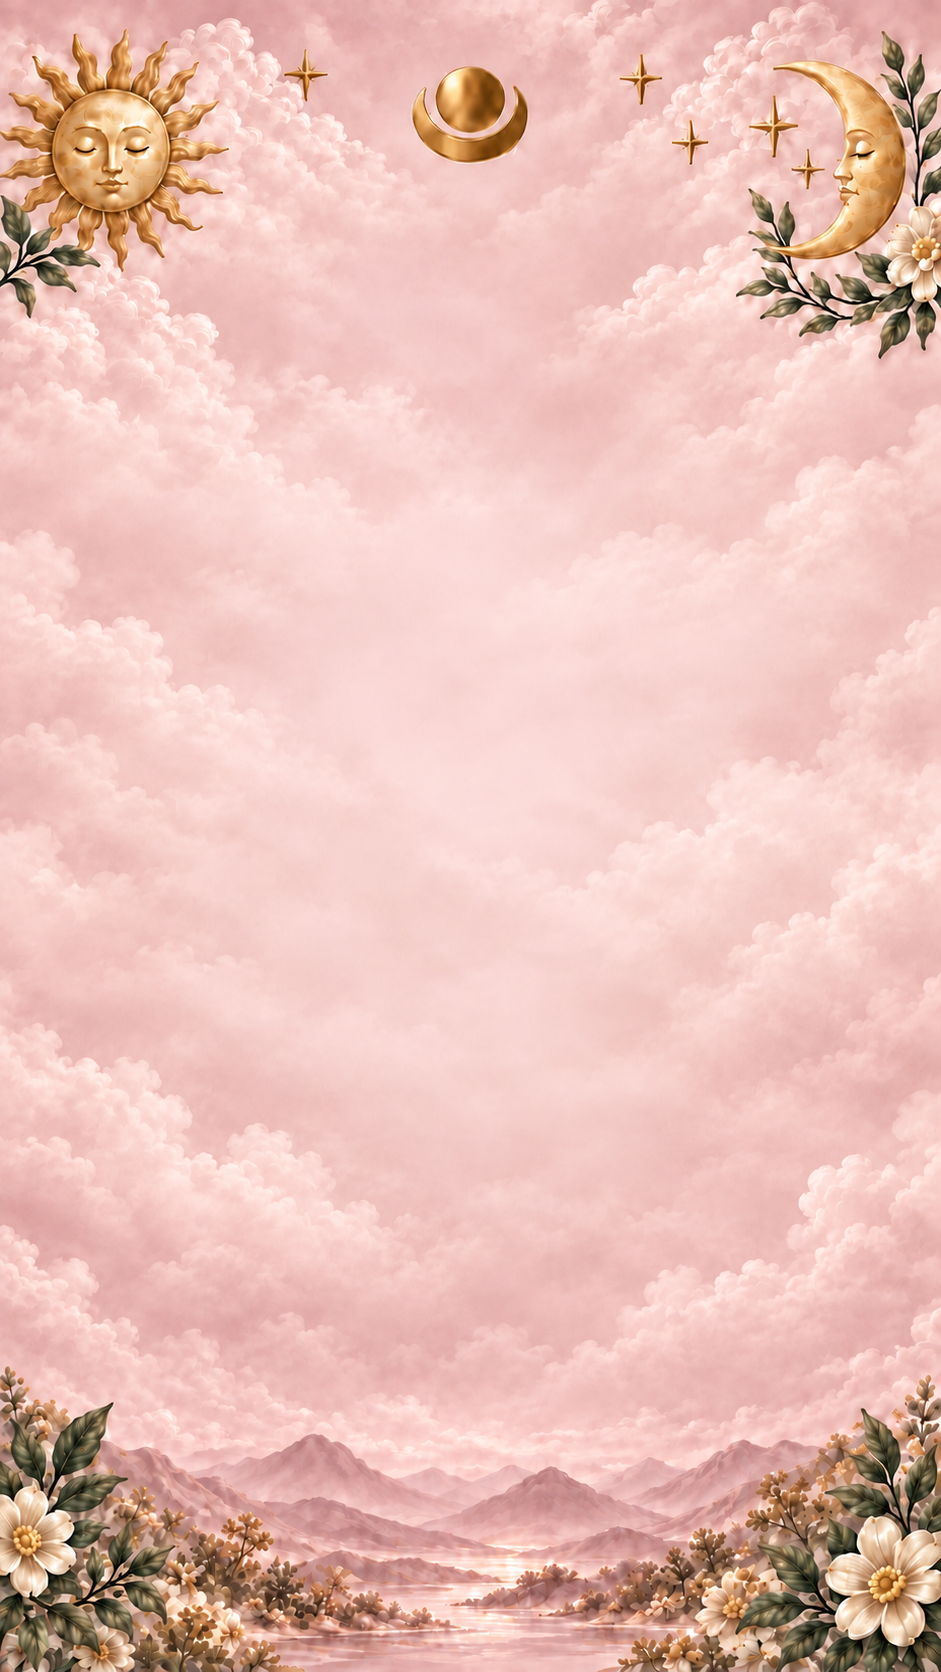
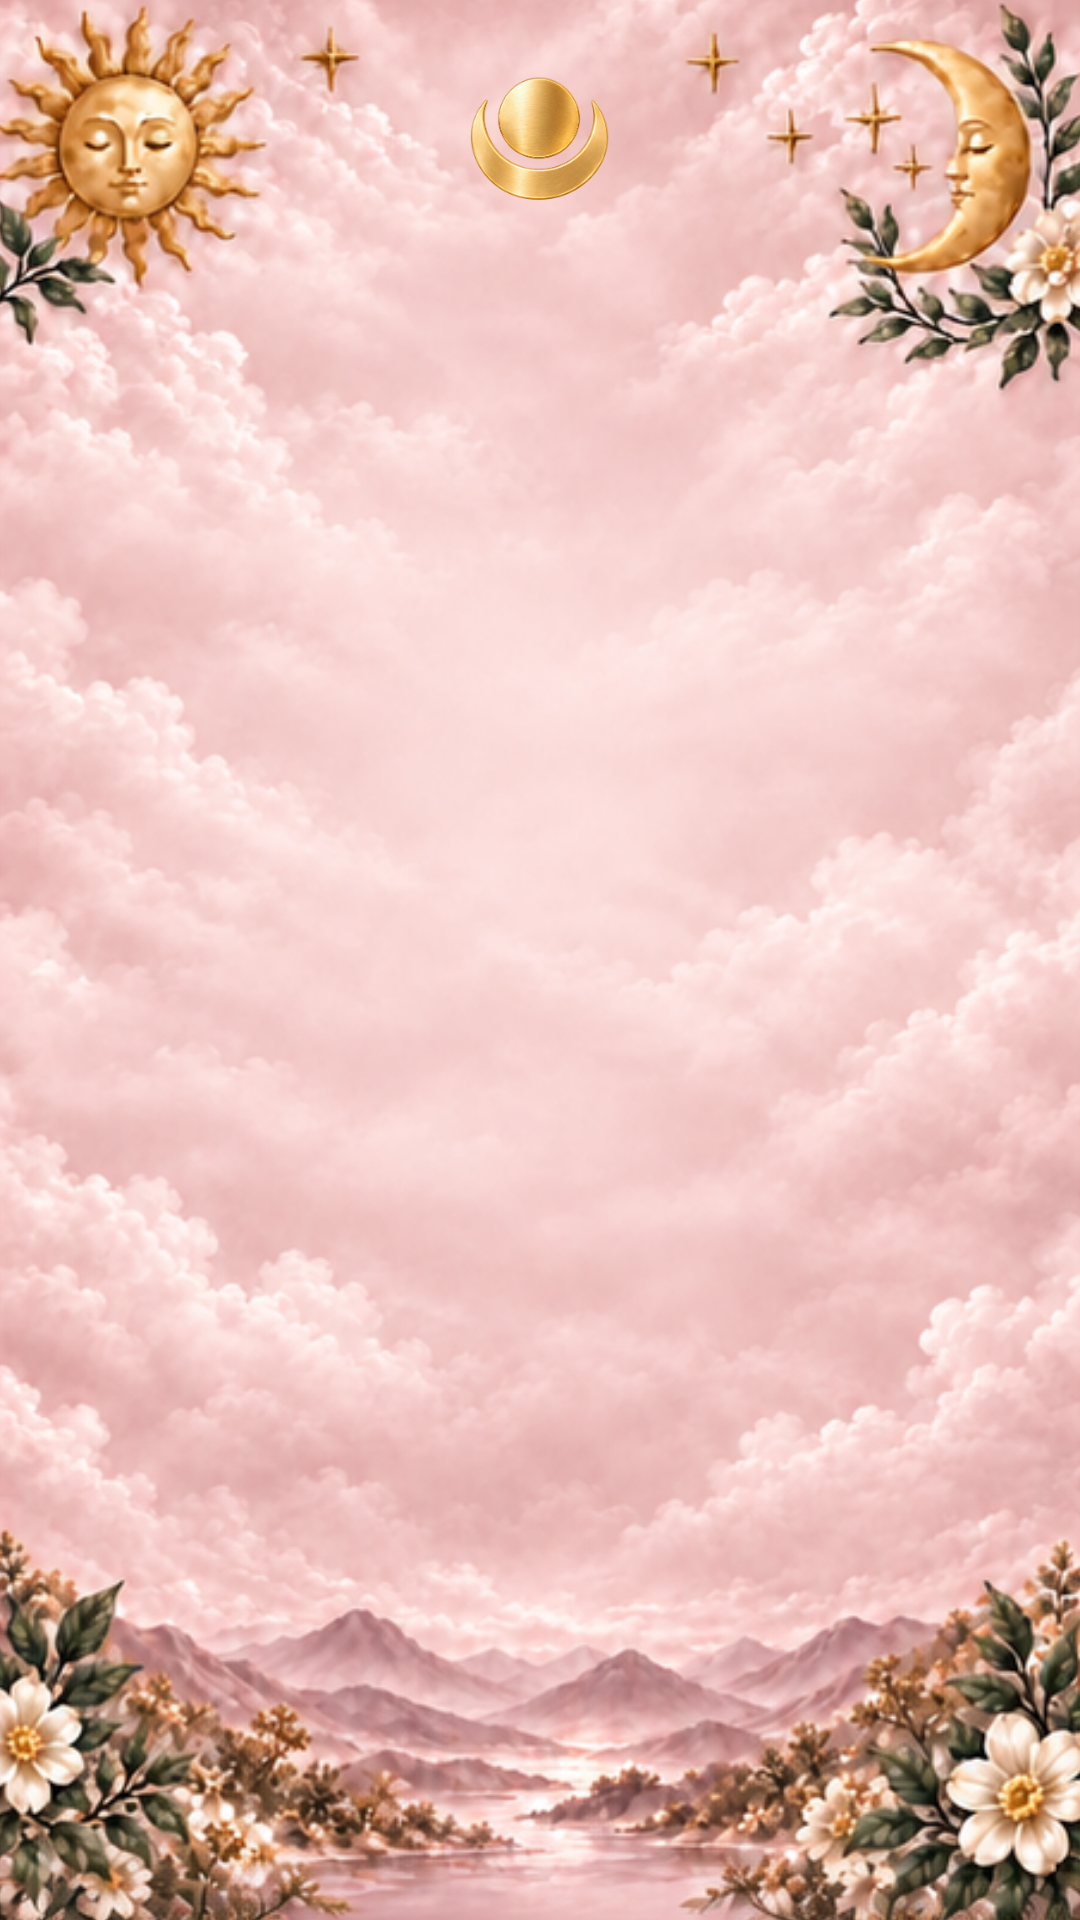
Refresh AURA palettes and reading controls
Use the seven approved 9:16 backgrounds and matching brighter gold marks. Default reading cards to justified alignment with a left-aligned option and a cap on expanded word spacing.

Add Clear all readings for the saved manual draft. Preserve the current canvas and post settings when clearing.

Validation: AURA reading checks passed in Chromium, Firefox, and WebKit. Cover and project checks passed in Chromium.

diff --git a/js/horoscope-template.js b/js/horoscope-template.js
@@ -5,11 +5,11 @@
   const tamil=['மேஷம்','ரிஷபம்','மிதுனம்','கடகம்','சிம்மம்','கன்னி','துலாம்','விருச்சிகம்','தனுசு','மகரம்','கும்பம்','மீனம்'];
   // Label, atmosphere, reading ink, accessible name accent, background key.
   const palettes=[
-    ['Sunday · Warm gold','#efb777','#253026','#805b2d','sunday'],
+    ['Sunday · Peach ivory','#eed4bf','#253026','#805b2d','sunday'],
     ['Monday · Moon pearl','#afc7df','#253026','#49627a','monday'],
-    ['Tuesday · Terracotta','#da9b88','#253026','#8b5142','tuesday'],
-    ['Wednesday · Sage','#b3c393','#253026','#4d6845','wednesday'],
-    ['Thursday · Saffron','#e5c36a','#253026','#7b601e','thursday'],
+    ['Tuesday · Brick red','#cb8074','#253026','#8b5142','tuesday'],
+    ['Wednesday · Celadon','#cddcc5','#253026','#4d6845','wednesday'],
+    ['Thursday · Buttercream','#ede3b6','#253026','#7b601e','thursday'],
     ['Friday · Rose','#e8a7ba','#253026','#875268','friday'],
     ['Saturday · Lavender','#b8a6d2','#253026','#69557f','saturday'],
   ];
@@ -22,7 +22,9 @@
     if(!images.has(name)) images.set(name,new Promise((resolve,reject)=>{
       const image=new Image();image.onload=()=>resolve(image);
       image.onerror=()=>{images.delete(name);reject(new Error('Could not load the horoscope artwork. Please reload.'));};
-      image.src=new URL(name,assetBase).href;
+      const url = new URL(name, assetBase);
+      if (name.startsWith('background-') && name !== 'background-none.png') url.searchParams.set('v', 'weekday-palettes-2');
+      image.src = url.href;
     }));
     return images.get(name);
   }
@@ -44,9 +46,31 @@
     }
     if(line)lines.push(line);return lines;
   }
-  async function render(data,colors,{blank=false,readingFontSize=30,readingFontWeight=600}={}){
+  function drawReadingLine(context, line, x, baseline, width, justify) {
+    if (justify) {
+      const words = line.split(' ');
+      if (words.length > 1) {
+        const widths = words.map(word => context.measureText(word).width);
+        const wordWidth = widths.reduce((sum, value) => sum + value, 0);
+        const gap = (width - wordWidth) / (words.length - 1);
+        const normalSpace = context.measureText(' ').width;
+        // Keep whole words shaped by the font and avoid large holes in narrow cards.
+        if (gap > normalSpace && gap <= normalSpace * 2) {
+          words.forEach((word, index) => {
+            context.fillText(word, x, baseline);
+            x += widths[index] + gap;
+          });
+          return;
+        }
+      }
+    }
+    context.fillText(line, x, baseline);
+  }
+
+  async function render(data,colors,{blank=false,readingFontSize=30,readingFontWeight=600,readingAlignment='justify'}={}){
     if(!Number.isInteger(readingFontSize)||readingFontSize<18||readingFontSize>36)throw new Error('Choose a whole reading text size from 18 to 36 px.');
     if(![400,600,700].includes(readingFontWeight))throw new Error('Choose Regular, Semibold, or Bold reading text.');
+    if(!['justify','left'].includes(readingAlignment))throw new Error('Choose Justified or Left aligned reading text.');
     const ta=data.language==='ta',family=ta?'Noto Sans Tamil':'DM Sans';
     const bodyFont=`${readingFontWeight} ${readingFontSize}px "${family}"`;
     const [background,art]=await Promise.all([
@@ -74,12 +98,13 @@
       if(blank)return;
       const reading=data.ordered[i];if(!reading||reading.name!==sign||typeof reading.text!=='string'||!reading.text.trim())throw new Error(`Missing or unordered ${sign} reading.`);
       c.fillStyle=colors[2];c.font=bodyFont;
-      const lines=wrap(c,reading.text,306,ta?'ta':'en'),lineHeight=Math.ceil(readingFontSize*1.2);
+      const readingWidth = 306;
+      const lines=wrap(c,reading.text,readingWidth,ta?'ta':'en'),lineHeight=Math.ceil(readingFontSize*1.2);
       const baseline=y+46+readingFontSize;
       if(lines.some((line,n)=>baseline+n*lineHeight+c.measureText(line).actualBoundingBoxDescent>y+182)){
         throw new Error(`${name}'s reading does not fit at ${readingFontSize} px. Reduce the shared reading text size or shorten this reading. No text was cut and the canvas is unchanged.`);
       }
-      lines.forEach((line,n)=>c.fillText(line,cardX+22,baseline+n*lineHeight));
+      lines.forEach((line,n)=>drawReadingLine(c, line, cardX+22, baseline+n*lineHeight, readingWidth, readingAlignment === 'justify' && n < lines.length - 1));
     });
     return new Promise((resolve,reject)=>canvas.toBlob(b=>b?resolve(b):reject(new Error('Could not render the horoscope.')),'image/png'));
   }

diff --git a/index.html b/index.html
@@ -85,7 +85,7 @@
             <p hidden id="horoscope-api-status" class="api-status" data-state="checking" role="status" aria-live="polite">Checking API…</p>
             <label class="horoscope-field">Reading date <input id="horoscope-date" type="date" min="1900-01-01" max="2100-12-31" required></label>
             <label class="horoscope-field">Language <select id="horoscope-language"><option value="ta">தமிழ் · Tamil</option><option value="en">English</option></select></label>
-            <label class="horoscope-field">Post color <select id="horoscope-theme"><option value="daily">Automatic · reading day</option><option value="none">No tint · AURA ivory</option><option value="sunday">Sunday · Warm gold</option><option value="monday">Monday · Moon pearl</option><option value="tuesday">Tuesday · Terracotta</option><option value="wednesday">Wednesday · Sage</option><option value="thursday">Thursday · Saffron</option><option value="friday">Friday · Rose</option><option value="saturday">Saturday · Lavender</option></select></label>
+            <label class="horoscope-field">Post color <select id="horoscope-theme"><option value="daily">Automatic · reading day</option><option value="none">No tint · AURA ivory</option><option value="sunday">Sunday · Peach ivory</option><option value="monday">Monday · Moon pearl</option><option value="tuesday">Tuesday · Brick red</option><option value="wednesday">Wednesday · Celadon</option><option value="thursday">Thursday · Buttercream</option><option value="friday">Friday · Rose</option><option value="saturday">Saturday · Lavender</option></select></label>
             <p class="pane-hint">Golden Rasi emblems, readings in your chosen language, and eight backgrounds. Every tint is available for any date.</p>
             </details>
             <details id="horoscope-typography" class="form-section typography-section"><summary>Typography</summary>
@@ -97,9 +97,10 @@
               </div>
             </div>
             <label class="horoscope-field">Reading text weight <select id="horoscope-font-weight" aria-describedby="horoscope-type-hint"><option value="400">Regular</option><option value="600" selected>Semibold</option><option value="700">Bold</option></select></label>
-            <p id="horoscope-type-hint" class="pane-hint">Applies to all 12 readings. Smaller text fits more. Select Create horoscope to apply; sign names keep their own style.</p>
+            <label class="horoscope-field">Reading alignment <select id="horoscope-alignment" aria-describedby="horoscope-type-hint"><option value="justify" selected>Justified</option><option value="left">Left aligned</option></select></label>
+            <p id="horoscope-type-hint" class="pane-hint">Applies to all 12 readings. Justified text keeps the last line left aligned. Select Create horoscope to apply.</p>
             </details>
-            <details id="horoscope-manual" class="tool-section"><summary>Readings</summary><p class="pane-hint">Paste a reading for each sign. Your text stays here while you adjust the post or switch sources.</p><div id="horoscope-readings"></div></details>
+            <details id="horoscope-manual" class="tool-section"><summary>Readings</summary><p class="pane-hint">Paste a reading for each sign. Your text stays here while you adjust the post or switch sources.</p><button id="horoscope-clear-readings" type="button" class="btn btn-ghost" disabled>Clear all readings</button><div id="horoscope-readings"></div></details>
             <p hidden id="horoscope-context" class="pane-hint" lang="ta"></p>
             <p id="horoscope-palette" class="pane-hint"></p>
             <button id="horoscope-create" type="button" class="btn btn-primary">Create horoscope</button>
@@ -329,9 +330,9 @@
     <script src="js/asset-store.js?v=performance-1"></script>
     <script src="js/render-scheduler.js?v=performance-1"></script>
     <script src="js/composer.js?v=aura-default-1"></script>
-    <script src="js/horoscope-template.js?v=aura-cover-1"></script>
+    <script src="js/horoscope-template.js?v=weekday-palettes-2"></script>
     <script src="js/lumen-template.js?v=lumen-centered-body-1"></script>
     <script src="js/lumen.js?v=matte-workspace-1"></script>
-    <script src="js/horoscope.js?v=matte-workspace-1"></script>
+    <script src="js/horoscope.js?v=reading-alignment-1"></script>
   </body>
 </html>

diff --git a/js/horoscope.js b/js/horoscope.js
@@ -5,6 +5,7 @@
   const SIGNS = template.signs;
   const source = document.getElementById('horoscope-source');
   const manualPanel = document.getElementById('horoscope-manual');
+  const clearReadingsButton = document.getElementById('horoscope-clear-readings');
   const fields = SIGNS.map((sign, index) => {
     const label = document.createElement('label');
     label.className = 'horoscope-field';
@@ -25,7 +26,12 @@
   const fontSize = document.getElementById('horoscope-font-size');
   const fontRange = document.getElementById('horoscope-font-size-range');
   const fontWeight = document.getElementById('horoscope-font-weight');
-  const typography = () => ({readingFontSize:fontSize.valueAsNumber, readingFontWeight:Number(fontWeight.value)});
+  const alignment = document.getElementById('horoscope-alignment');
+  const typography = () => ({
+    readingFontSize: fontSize.valueAsNumber,
+    readingFontWeight: Number(fontWeight.value),
+    readingAlignment: alignment.value,
+  });
   const theme = document.getElementById('horoscope-theme');
   const button = document.getElementById('horoscope-create');
   const coverButton = document.getElementById('horoscope-cover');
@@ -120,6 +126,7 @@
     cancelWork();
     const manual = source.value === 'manual';
     manualPanel.hidden = !manual;
+    clearReadingsButton.disabled = fields.every(({input}) => input.value === '');
     apiStatus.hidden = manual;
     context.hidden = manual;
     context.textContent = '';
@@ -134,12 +141,23 @@
     paletteLabel.style.setProperty('--day-accent', colors[3]);
     status.textContent = 'Create a cover or horoscope to apply your settings. Any existing canvas stays unchanged until ready.';
   }
+  clearReadingsButton.addEventListener('click', () => {
+    fields.forEach(({input}) => {
+      input.value = '';
+      input.removeAttribute('aria-invalid');
+    });
+    update();
+    window.ComposerTemplateState.changed();
+    status.textContent = 'All 12 reading boxes cleared. Your current canvas is unchanged.';
+    fields[0].input.focus();
+  });
   source.addEventListener('change', () => {update();checkApi();});
   dateInput.addEventListener('change', () => {update();checkApi();});
   theme.addEventListener('change', update);
   fontRange.addEventListener('input', () => {fontSize.value=fontRange.value;update();});
   fontSize.addEventListener('input', () => {if(fontSize.checkValidity())fontRange.value=fontSize.value;update();});
   fontWeight.addEventListener('change', update);
+  alignment.addEventListener('change', update);
   language.addEventListener('change', () => {update();checkApi();});
   document.addEventListener('composer:document-operation', event => {
     if (event.detail.owner !== 'aura') update();
@@ -154,6 +172,7 @@
       theme: theme.value,
       fontSize: fontSize.value,
       fontWeight: fontWeight.value,
+      alignment: alignment.value,
       readings: fields.map(({ input }) => input.value),
     };
   }
@@ -166,6 +185,7 @@
     choose(language, value.language);
     choose(theme, value.theme);
     choose(fontWeight, String(value.fontWeight ?? ''));
+    alignment.value = value.alignment === 'left' ? 'left' : 'justify';
     if (typeof value.date === 'string' && (value.date === '' || /^\d{4}-\d{2}-\d{2}$/.test(value.date))) dateInput.value = value.date;
     if (typeof value.fontSize === 'string' || typeof value.fontSize === 'number') fontSize.value = String(value.fontSize).slice(0, 12);
     if (fontSize.checkValidity()) fontRange.value = fontSize.value;

diff --git a/README.md b/README.md
@@ -102,19 +102,21 @@ The older files under `brands/` are no longer referenced by the composer.
 
 Select **AURA** and choose **Manual entry** (default) or **Fetch from AURA API**. Manual entry provides twelve labelled reading fields; paste one reading per sign, then select **Create horoscope**. All fields are required. Manual mode makes no API requests, and drafts survive source, brand, date, language, and color changes as well as reloads. Generating API results never overwrites manual drafts. Explicitly restoring a newly saved API reading opens its original summaries in Manual entry for editing, without refetching them.
 
+Use **Readings → Clear all readings** to empty all twelve input boxes for a new edition. This also clears the saved reading draft while retaining the date, language, styling, and current canvas.
+
 Choose **தமிழ் · Tamil** (default) or **English**, a reading date, and a background. API mode fetches the selected language directly from AURA. Both modes produce one 1080 × 1920 (9:16) canvas. Save and Download PNG use the normal composer controls.
 
 Generated AURA readings and covers keep their supported Story / Reel size; the canvas-size control is locked while editing them. Restoring an older AURA save also restores its full 9:16 background rather than a cropped preset. Selecting Lumen lets you stage another format for a new Lumen post without resizing the current AURA artwork. Blank canvases and uploaded backgrounds retain the normal size controls.
 
 Selecting AURA with an empty canvas defaults Canvas size to **Story / Reel · 9:16 · 1080×1920**, including new blank canvases. Switching to AURA while artwork is already open preserves that artwork and its displayed size; creating an AURA cover or reading then applies 9:16. Lumen keeps its own staged format.
 
-All eight backgrounds are always available in either language: No tint (ivory), Sunday warm gold, Monday moon pearl, Tuesday terracotta, Wednesday sage, Thursday saffron, Friday rose, and Saturday lavender. Automatic follows the selected date in Asia/Kolkata. These are editorial tints, independent of the readings.
+Both languages offer eight backgrounds. Choose No tint (ivory), Sunday peach ivory, Monday moon pearl, Tuesday brick red, Wednesday celadon, Thursday buttercream, Friday rose, or Saturday lavender. Automatic follows the selected date in Asia/Kolkata.
 
 API: `https://aura-glitchlabs.fly.dev/api/horoscopes/daily?date=YYYY-MM-DD&lang=ta` (or `lang=en`). Summaries are used unchanged. The requested language, date, timezone, all twelve unique signs, and reading context are validated before replacing the canvas. Failed requests never fall back to invented or translated readings. Changing source, language, date, or color cancels stale requests and prevents late results from replacing the canvas. The API disclaimer appears below the controls; the artwork has no footer text.
 
 The shared renderer (`js/horoscope-template.js`) uses the approved centered layout: equal 180 px side margins, two columns of 350 × 196 px cards, and six rows from y=400 to y=1636. Clean local celestial backgrounds match each day; gold emblems, ivory cards, Tamil Rasi names or English transliterations, and localized dates are rendered separately. Name accents are muted bronze, slate blue, clay, forest sage, ochre, dusty rose, or plum, with at least 4.5:1 contrast against the cards. These margins were checked against a simulated Reel view based on the supplied screenshot; Instagram displays and overlays can vary.
 
-**Reading text size** (18–36 px, default 30) and **Reading text weight** (Regular 400, Semibold 600, Bold 700; default Semibold) affect all twelve reading paragraphs together. Select **Create horoscope** to apply. Sign names, title, and date retain their own styling. Controls and manual drafts survive reloads. Newly saved covers and reading posts retain their source inputs; older saved flattened images are unchanged.
+**Typography** controls all twelve readings. Set text size (18–36 px, default 30), weight (Regular, Semibold, or Bold), and alignment (Justified by default or Left aligned). Justification keeps final lines and lines that would need oversized gaps left aligned. Select **Create horoscope** to apply. Controls and manual drafts survive reloads. Saved covers and reading posts retain their source inputs.
 
 Text uses self-hosted Noto Sans Tamil or DM Sans; fonts are loaded at the requested weight before measurement. Tamil wrapping respects grapheme boundaries. There is no per-sign shrinking or automatic rewriting. A reading that exceeds its card produces an error naming the Rasi and suggesting a smaller shared size or shorter reading; the existing canvas is preserved. Blank horoscope templates need no API connection.
 
@@ -123,7 +125,7 @@ The API must allow the site's origin through its CORS configuration. In API mode
 After the development setup above:
 
 - `npm test -- --suite test-horoscope.cjs` checks shared size and weight across all signs, input validation, accessible name contrast, long Tamil readings at 18 px, manual defaults, draft retention, API failures/cancellation, both languages, all backgrounds, blanks, dimensions, PNG export, overflow handling, and mobile width using mocked API responses.
-- `node scripts/render-horoscope.cjs` exports Tamil editorial samples and blanks for all eight backgrounds, with a comparison sheet and phone-sized/simulated Reels previews. Set `HOROSCOPE_LANGUAGE=en` for English. These samples are illustrative layout previews, not live forecasts. Pass `HOROSCOPE_DATA=/path/to/api-response.json` to render a saved actual Tamil or English API edition instead; optional `readingFontSize` and `readingFontWeight` fields set the shared typography for that export.
+- `node scripts/render-horoscope.cjs` exports Tamil editorial samples and blanks for all eight backgrounds, with a comparison sheet and phone-sized/simulated Reels previews. Set `HOROSCOPE_LANGUAGE=en` for English. These samples use illustrative readings. Pass `HOROSCOPE_DATA=/path/to/api-response.json` to render a saved Tamil or English API edition. Optional `readingFontSize`, `readingFontWeight`, and `readingAlignment` fields set the shared typography.
 
 Exports are local review artifacts under `exports/daily-horoscope/` and are not committed.
 

diff --git a/assets/horoscope/README.md b/assets/horoscope/README.md
@@ -1,9 +1,9 @@
 # AURA horoscope artwork
 
-`background-wednesday.png` is the approved clean sage celestial plate. The other six daily backgrounds and `background-none.png` were produced using the built-in image generation tool, using that plate as the edit reference. They are local assets, not runtime image-generation requests.
+The seven daily backgrounds are the approved 1080 × 1920 PNGs shared by the horoscope cover and reading story. The palette is peach ivory on Sunday, moon pearl on Monday, brick red on Tuesday, celadon on Wednesday, buttercream on Thursday, rose on Friday, and lavender on Saturday. Each plate includes the bright gold AURA orb and crescent above a pale center for the cover or readings.
 
-Generation direction: retain the sun at upper left, moon at upper right, gold orb/crescent at top center, edge flowers, and lower mountain/river scene. Change only the cloud/sky/landscape atmosphere to warm honey gold (Sunday), cool moon pearl (Monday), soft terracotta (Tuesday), soft saffron (Thursday), dusty rose (Friday), lavender (Saturday), or neutral ivory. Keep the center pale and quiet with no cards, zodiac emblems, text, or new decoration.
+`background-none.png` is the original neutral ivory plate used for No tint.
 
-The Wednesday plate was generated from `ivory-emblems.png` by removing the baked-in cards and emblems and giving the clouds a subtle sage atmosphere. The original asset remains the source for gold emblem crops. Cards and all text are drawn by the shared renderer, so AI-generated typography is never used.
+`ivory-emblems.png` is the original artwork used for the gold sign emblems. The shared renderer draws the reading cards and text over the selected background.
 
-`zodiac-cover-ring.png` is the transparent antique-gold zodiac ornament selected for the daily cover design. It was generated with the built-in image-generation tool using the supplied lavender cover as a style reference: twelve upright zodiac figures in Aries-to-Pisces order, thin concentric rings and radial dividers, an empty transparent center, and no lettering or numerals. The cover renderer reuses the selected daily background and draws the AURA wordmark, localized title, date, month/year, and weekday separately with local fonts. The ornament is a static local asset; creating a cover makes no image-generation request.
+`zodiac-cover-ring.png` is the transparent antique gold cover ornament with twelve figures in Aries-to-Pisces order and an open center for the date. The cover renderer places the ring and AURA wordmark over the selected background and draws the localized title, date, and weekday using local fonts. All artwork is stored locally.
